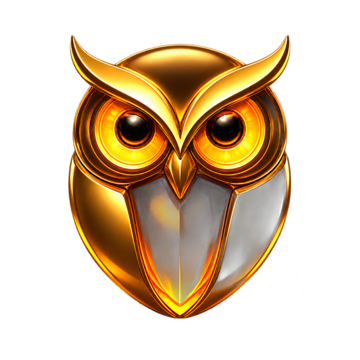
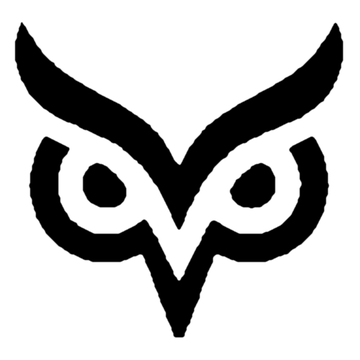
apply verified status and flat website signet

diff --git a/index.html b/index.html
@@ -17,7 +17,7 @@
 <link rel="alternate" hreflang="en" href="https://hunchagent.io/en/">
 <link rel="alternate" hreflang="x-default" href="https://hunchagent.io/">
 <link rel="icon" type="image/png" href="favicon.png">
-<link rel="apple-touch-icon" href="owl-mark.png">
+<link rel="apple-touch-icon" href="app-icon.png">
 <style>
 :root{
   /* Brand System 2026.03 — security-document credential system. ink / ivory / signal gold */
@@ -84,6 +84,7 @@ nav.scrolled{box-shadow:0 8px 24px rgba(0,0,0,.05)}
 nav.over-ink{background:rgba(13,13,11,.7);color:var(--ivory-100);border-bottom-color:var(--security-line-dark)}
 nav.over-ink .nav-links{color:var(--ivory-300)}
 nav.over-ink .nav-links a:hover{color:var(--ivory-50)}
+nav.over-ink .logo img{filter:brightness(0) invert(1)}
 nav.over-ink .nav-serial{color:var(--gold-300);border-color:var(--security-line-dark)}
 nav.over-ink.scrolled{box-shadow:0 8px 24px rgba(0,0,0,.35)}
 .logo{display:flex;align-items:center;gap:.55rem;font-weight:700;font-size:1.05rem;letter-spacing:-.02em;text-transform:lowercase;flex:0 0 auto;margin-right:.6rem}
@@ -1286,29 +1287,30 @@ section[data-serial] > .wrap{position:relative;z-index:1}
         <li>Geräte- &amp; Aktionsgrenzen: jedes Gerät, jeder Kanal bis zu seiner Risikoklasse (Nur lesen · Lesen und merken · Alles)</li>
         <li>Wissensgraph &amp; Pattern of Life: Themen, Personen, Orte, Dateien, Vorhaben, Fäden als Graph; Stundenprofil, Übergänge, Kadenzen (Runtime, App → Brain → Graph)</li>
         <li>App-/Fenster-/Browser-/Datei-Kontext als Sensoren der Maschine (einschaltbar, Ruhezeiten; Screen-OCR über macOS Vision, hinter dem Bildschirmaufnahme-Recht), Rewind über MCP, Transcript-Import (ChatGPT/Claude-Export, Text)</li>
-        <li>Proaktive Predictions &amp; Nudges: Vorhersage-Impulse im Heartbeat, Zustellung an die aktive Oberfläche, sonst Push</li>
+        <li>Proaktive Predictions &amp; Nudges: Vorhersage-Impulse im Heartbeat und Zustellung an die aktive Oberfläche</li>
         <li>Presence-Routing: die Maschine weiß, welche Oberfläche gerade aktiv ist, und liefert dorthin</li>
         <li>Vorhaben auf Desktop-Surfaces: <span class="mono">hunch vorhaben</span>, Weboberfläche, Cockpit</li>
         <li>Agenten-Tresor: Logins, Zahlungsmittel, Passkeys aus dem Wallet an die Maschine — jede Nutzung durchs Authority Gate, Zahlungsmittel nur mit Zweck und Betrag, Geheimnis nie im Protokoll</li>
-        <li>Apple-Watch-App: Freigaben, Arbeitsschritt, Sprechen über die verbundene Maschine, Complication (offene Freigaben · Schritt)</li>
         <li>Vorhaben-Ausführer: Ziel setzen, Plan aus Schritten, Schritte als Fäden, über Tage und Neustarts; Fehlschlag → einmal neu planen, dann pausieren und fragen; Rückfragen nur, wo das Gate sie verlangt</li>
         <li>Auslöser: Zeit, Dateiänderung, fehlgeschlagener Build, Kanal-Nachricht → Auftrag oder Faden; pausierte Fäden wieder aufnehmen</li>
         <li>Globale Live-Konversation: App, Runtime, CLI, Web und Telegram teilen einen Verlauf — Gespräche anderer Oberflächen im Brain sehen und hier fortsetzen</li>
       </ul></div>
       <div class="col reveal"><h3><span class="tag exp">Experimentell</span></h3><ul>
-        
         <li>Fenstertitel nur mit Bedienungshilfen-Recht; Screen-OCR nur mit Bildschirmaufnahme-Recht</li>
+        <li>Apple-Watch-Target: Freigaben, Arbeitsschritt, Sprache und Complication sind gebaut; der Test auf der echten Uhr steht aus</li>
+        <li>Freigeben/Ablehnen aus einer Push-Mitteilung: Code und APNs-Annahme sind belegt; der korrigierte Button auf Build ≥118 wartet auf E2E-Bestätigung</li>
+        <li>Vorhersage-Push im Alltag: Erzeugung und Presence-Routing laufen, die tatsächliche Push-Zustellung ist noch nicht bestätigt</li>
       </ul></div>
       <div class="col reveal"><h3><span class="tag next">Als Nächstes</span></h3><ul>
         <li>Pro-Version im App Store (Einmalkauf, Kern bleibt frei) — sobald das Paid-Apps-Agreement aktiv ist</li>
       </ul></div>
       <div class="col reveal"><h3><span class="tag vision">Vision 2.0</span></h3><ul>
-        <li>Ausgeliefert: mehrtägige Vorhaben, Wegwahl innerhalb der Authority, Reaktion auf Fehlschläge, Rückfragen nur für Besitzer-Entscheidungen</li>
-        <li>Offen bleibt die Richtung: ein Gegenüber, das über Jahre mit dir mitwächst</li>
         <li>Ein dauerhaftes Gegenüber über Modelle, Geräte und Jahre</li>
-        <li>Relay-Dienst (Erreichbarkeit ohne eigenes Netz) — bewusst nicht geplant; Erreichbarkeit läuft über ein privates Netz deiner Wahl (VPN/Mesh) — deine Geräte, keine fremde Mitte</li>
       </ul></div>
     </div>
+    <p class="lead reveal" style="margin-top:1.4rem">Bewusst nicht geplant: ein gehosteter Relay-Dienst.
+    Erreichbarkeit von unterwegs läuft über ein privates Netz deiner Wahl (VPN/Mesh) plus TLS —
+    deine Geräte, keine fremde Mitte.</p>
   </div>
 </section>
 

diff --git a/en/index.html b/en/index.html
@@ -17,7 +17,7 @@
 <link rel="alternate" hreflang="en" href="https://hunchagent.io/en/">
 <link rel="alternate" hreflang="x-default" href="https://hunchagent.io/">
 <link rel="icon" type="image/png" href="../favicon.png">
-<link rel="apple-touch-icon" href="../owl-mark.png">
+<link rel="apple-touch-icon" href="../app-icon.png">
 <style>
 :root{
   /* Brand System 2026.03 — security-document credential system. ink / ivory / signal gold */
@@ -84,6 +84,7 @@ nav.scrolled{box-shadow:0 8px 24px rgba(0,0,0,.05)}
 nav.over-ink{background:rgba(13,13,11,.7);color:var(--ivory-100);border-bottom-color:var(--security-line-dark)}
 nav.over-ink .nav-links{color:var(--ivory-300)}
 nav.over-ink .nav-links a:hover{color:var(--ivory-50)}
+nav.over-ink .logo img{filter:brightness(0) invert(1)}
 nav.over-ink .nav-serial{color:var(--gold-300);border-color:var(--security-line-dark)}
 nav.over-ink.scrolled{box-shadow:0 8px 24px rgba(0,0,0,.35)}
 .logo{display:flex;align-items:center;gap:.55rem;font-weight:700;font-size:1.05rem;letter-spacing:-.02em;text-transform:lowercase;flex:0 0 auto;margin-right:.6rem}
@@ -1217,29 +1218,30 @@ section[data-serial] > .wrap{position:relative;z-index:1}
         <li>Device &amp; action boundaries: every device, every channel up to its risk class (read only · read and remember · everything)</li>
         <li>Knowledge graph &amp; Pattern of Life: topics, people, places, files, intentions, threads as a graph; hour profile, transitions, cadences (runtime, app → Brain → Graph)</li>
         <li>App/window/browser/file context as sensors of the machine (switchable, quiet hours; screen OCR via macOS Vision, behind the screen-recording permission), rewind via MCP, transcript import (ChatGPT/Claude export, text)</li>
-        <li>Proactive predictions &amp; nudges: prediction nudges in the heartbeat, delivered to the active surface, push otherwise</li>
+        <li>Proactive predictions &amp; nudges: prediction nudges in the heartbeat, delivered to the active surface</li>
         <li>Presence routing: the machine knows which surface is active right now and delivers there</li>
         <li>Intentions on desktop surfaces: <span class="mono">hunch vorhaben</span>, web UI, cockpit</li>
         <li>Agent vault: logins, payment methods, passkeys from the wallet onto the machine — every use through the Authority Gate, payment only with purpose and amount, the secret never in the log</li>
-        <li>Apple Watch app: approvals, work step, talking through the connected machine, complication (open approvals · step)</li>
         <li>Intention runner: set a goal, plan of steps, steps as threads, across days and restarts; failure → replan once, then pause and ask; questions only where the gate requires them</li>
         <li>Triggers: time, file change, failed build, channel message → job or thread; resume paused threads</li>
         <li>Global live conversation: app, runtime, CLI, web and Telegram share one history — see conversations from other surfaces in the Brain and continue them here</li>
       </ul></div>
       <div class="col reveal"><h3><span class="tag exp">Experimental</span></h3><ul>
-        
         <li>Window titles only with accessibility permission; screen OCR only with screen-recording permission</li>
+        <li>Apple Watch target: approvals, work step, voice and complication are built; the test on a physical watch is still open</li>
+        <li>Approve/decline from a push notification: code and APNs acceptance are proven; the corrected button on build ≥118 awaits end-to-end confirmation</li>
+        <li>Prediction push in daily use: generation and presence routing run, but actual push delivery has not yet been confirmed</li>
       </ul></div>
       <div class="col reveal"><h3><span class="tag next">Next</span></h3><ul>
         <li>Pro version in the App Store (one-time purchase, core stays free) — as soon as the paid-apps agreement is active</li>
       </ul></div>
       <div class="col reveal"><h3><span class="tag vision">Vision 2.0</span></h3><ul>
-        <li>Shipped: multi-day intentions, choosing the path within the authority, reacting to failures, questions only for owner decisions</li>
-        <li>What stays open is the direction: a counterpart that grows with you over years</li>
         <li>A lasting counterpart across models, devices and years</li>
-        <li>Relay service (reachability without your own network) — deliberately not planned; reachability runs over a private network of your choice (VPN/mesh) — your devices, no third party in the middle</li>
       </ul></div>
     </div>
+    <p class="lead reveal" style="margin-top:1.4rem">Deliberately not planned: a hosted relay service.
+    Reachability away from home runs over a private network of your choice (VPN/mesh) plus TLS —
+    your devices, no third party in the middle.</p>
   </div>
 </section>
 
